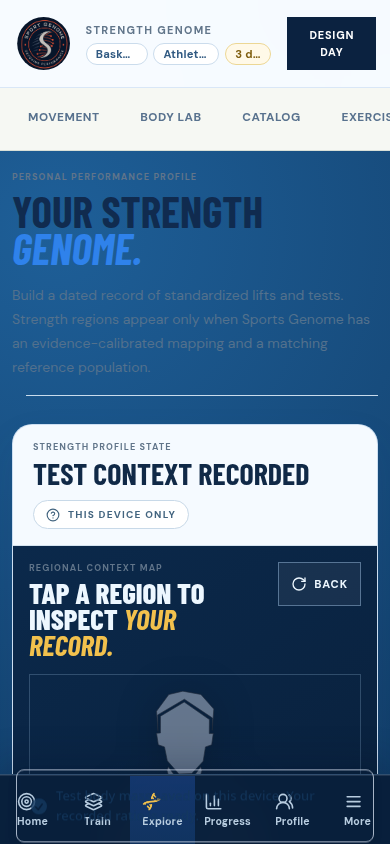
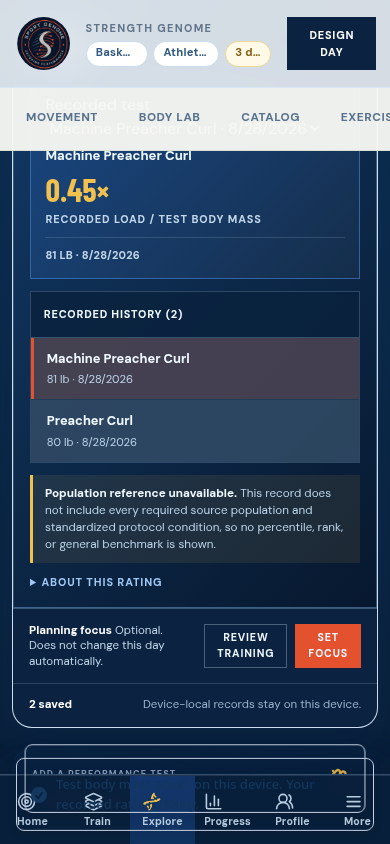
Checkpoint: Published a stronger Strength Genome region-detail workflow. Selected regions now include a concise selectable recorded-history list, visually distinguish the active record, and show an explicit unavailable-reference state when the source population and standardized protocol conditions a

diff --git a/client/src/components/StrengthGenomePanel.tsx b/client/src/components/StrengthGenomePanel.tsx
@@ -52,7 +52,20 @@ function StrengthRegionRecordDetail({ region, observations, onClose, weightUnit,
   const latestRecord = selectStrengthRegionRecord(records, selectedRecordId);
   const bodyMassRatio = latestRecord?.loadKg != null && latestRecord.bodyMassKgAtTest != null && latestRecord.bodyMassKgAtTest > 0 ? latestRecord.loadKg / latestRecord.bodyMassKgAtTest : null;
   const parsedBodyMassEntry = Number(bodyMassEntry);
-  return <section className="strength-region-record-detail" aria-label={`${region.label} recorded strength context`}><div className="strength-region-record-heading"><div><p className="metric-label">Regional record</p><h2>{region.label}</h2></div><button type="button" onClick={() => { emitInteractionFeedback(); onClose(); }} className="strength-region-close" aria-label={`Close ${region.label} detail`}><X className="h-4 w-4" /></button></div>{latestRecord ? <article className="strength-region-record-card">{records.length > 1 && <label className="strength-region-record-picker"><span>Recorded test</span><select aria-label="Choose recorded test" value={selectedRecordId || String(latestRecord.id)} onChange={(event) => setSelectedRecordId(event.target.value)}>{records.map((record) => <option key={record.id} value={String(record.id)}>{record.exerciseName} · {new Date(record.observedAt).toLocaleDateString()}</option>)}</select></label>}<span className="strength-region-test-name">{latestRecord.exerciseName}</span>{bodyMassRatio != null ? <><b className="strength-body-mass-ratio">{bodyMassRatio.toFixed(2)}×</b><span className="strength-ratio-label">Recorded load / test body mass</span></> : <form className="strength-ratio-entry" onSubmit={(event) => { event.preventDefault(); if (!Number.isFinite(parsedBodyMassEntry) || parsedBodyMassEntry <= 0) return; const bodyMassKgAtTest = displayWeightToKilograms(parsedBodyMassEntry, weightUnit); if (directAccess) { onSetDeviceBodyMass(String(latestRecord.id), bodyMassKgAtTest); setBodyMassEntry(""); emitInteractionFeedback([10, 30, 10]); toast.success("Test body mass saved on this device. Your recorded ratio is ready."); return; } setObservationBodyMass.mutate({ observationId: Number(latestRecord.id), bodyMassKgAtTest }); }}><label><span>Body mass on test day ({weightUnit})</span><input aria-label={`Body mass on test day in ${weightUnitLabel(weightUnit)}`} inputMode="decimal" value={bodyMassEntry} onChange={(event) => setBodyMassEntry(event.target.value.replace(/[^0-9.]/g, ""))} placeholder={weightUnit === "lb" ? "e.g. 180" : "e.g. 82"} /></label><button type="submit" disabled={!Number.isFinite(parsedBodyMassEntry) || parsedBodyMassEntry <= 0 || (!directAccess && setObservationBodyMass.isPending)}>{!directAccess && setObservationBodyMass.isPending ? "Saving" : "Calculate ratio"}</button></form>}<span className="strength-region-test-meta">{latestRecord.loadKg != null ? formatDisplayWeight(latestRecord.loadKg, weightUnit) : "No load"}{latestRecord.repetitions ? ` · ${latestRecord.repetitions} reps` : ""} · {new Date(latestRecord.observedAt).toLocaleDateString()}</span></article> : <p className="strength-region-record-empty">No recorded test for this region yet.</p>}<details className="strength-region-boundary"><summary>About this rating</summary><p>This is your recorded lift relative to the body mass logged with that same test. A percentile, universal rank, and regional force score are not shown without a matching validated reference.</p></details></section>;
+  return <section className="strength-region-record-detail" aria-label={`${region.label} recorded strength context`}>
+    <div className="strength-region-record-heading"><div><p className="metric-label">Regional record</p><h2>{region.label}</h2></div><button type="button" onClick={() => { emitInteractionFeedback(); onClose(); }} className="strength-region-close" aria-label={`Close ${region.label} detail`}><X className="h-4 w-4" /></button></div>
+    {latestRecord ? <>
+      <article className="strength-region-record-card">
+        {records.length > 1 && <label className="strength-region-record-picker"><span>Recorded test</span><select aria-label="Choose recorded test" value={selectedRecordId || String(latestRecord.id)} onChange={(event) => setSelectedRecordId(event.target.value)}>{records.map((record) => <option key={record.id} value={String(record.id)}>{record.exerciseName} · {new Date(record.observedAt).toLocaleDateString()}</option>)}</select></label>}
+        <span className="strength-region-test-name">{latestRecord.exerciseName}</span>
+        {bodyMassRatio != null ? <><b className="strength-body-mass-ratio">{bodyMassRatio.toFixed(2)}×</b><span className="strength-ratio-label">Recorded load / test body mass</span></> : <form className="strength-ratio-entry" onSubmit={(event) => { event.preventDefault(); if (!Number.isFinite(parsedBodyMassEntry) || parsedBodyMassEntry <= 0) return; const bodyMassKgAtTest = displayWeightToKilograms(parsedBodyMassEntry, weightUnit); if (directAccess) { onSetDeviceBodyMass(String(latestRecord.id), bodyMassKgAtTest); setBodyMassEntry(""); emitInteractionFeedback([10, 30, 10]); toast.success("Test body mass saved on this device. Your recorded ratio is ready."); return; } setObservationBodyMass.mutate({ observationId: Number(latestRecord.id), bodyMassKgAtTest }); }}><label><span>Body mass on test day ({weightUnit})</span><input aria-label={`Body mass on test day in ${weightUnitLabel(weightUnit)}`} inputMode="decimal" value={bodyMassEntry} onChange={(event) => setBodyMassEntry(event.target.value.replace(/[^0-9.]/g, ""))} placeholder={weightUnit === "lb" ? "e.g. 180" : "e.g. 82"} /></label><button type="submit" disabled={!Number.isFinite(parsedBodyMassEntry) || parsedBodyMassEntry <= 0 || (!directAccess && setObservationBodyMass.isPending)}>{!directAccess && setObservationBodyMass.isPending ? "Saving" : "Calculate ratio"}</button></form>}
+        <span className="strength-region-test-meta">{latestRecord.loadKg != null ? formatDisplayWeight(latestRecord.loadKg, weightUnit) : "No load"}{latestRecord.repetitions ? ` · ${latestRecord.repetitions} reps` : ""} · {new Date(latestRecord.observedAt).toLocaleDateString()}</span>
+      </article>
+      <details className="strength-region-history"><summary>Recorded history ({records.length})</summary><div>{records.map((record) => <button type="button" key={record.id} aria-pressed={String(record.id) === String(latestRecord.id)} onClick={() => { emitInteractionFeedback(); setSelectedRecordId(String(record.id)); }}><strong>{record.exerciseName}</strong><span>{record.loadKg != null ? formatDisplayWeight(record.loadKg, weightUnit) : "No load"}{record.repetitions ? ` · ${record.repetitions} reps` : ""} · {new Date(record.observedAt).toLocaleDateString()}</span></button>)}</div></details>
+      <p className="strength-reference-unavailable"><strong>Population reference unavailable.</strong> This record does not include every required source population and standardized protocol condition, so no percentile, rank, or general benchmark is shown.</p>
+    </> : <div className="strength-region-record-empty"><p>No recorded test for this region yet.</p><p>Population reference unavailable until there is a fully documented, source-matched test.</p></div>}
+    <details className="strength-region-boundary"><summary>About this rating</summary><p>This is your recorded lift relative to the body mass logged with that same test. A percentile, universal rank, and regional force score are not shown without a matching validated reference.</p></details>
+  </section>;
 }
 
 const measurementOptions: { value: MeasurementType; label: string }[] = [

diff --git a/client/src/index.css b/client/src/index.css
@@ -724,6 +724,23 @@ select {
 .destination-train .device-workout-tracker .session-set-row button { border-color: rgb(164 200 232 / .45); background: rgb(255 255 255 / .09); color: #eef7ff; }
 .destination-train .device-workout-tracker .session-set-complete { border-left-color: #f2c14d; background: rgb(242 193 77 / .11); }
 
+.strength-region-history { margin-top: .75rem; border: 1px solid #d2e1ed; background: #f6faff; }
+.strength-region-history summary { display: flex; min-height: 2.8rem; align-items: center; padding: .65rem .8rem; color: #244b70; font-size: .68rem; font-weight: 800; letter-spacing: .07em; text-transform: uppercase; cursor: pointer; }
+.strength-region-history > div { display: grid; gap: 1px; border-top: 1px solid #d8e6f1; background: #d8e6f1; }
+.strength-region-history button { display: grid; gap: .2rem; padding: .7rem .8rem; border-left: 3px solid transparent; background: #fff; color: #2b5377; text-align: left; }
+.strength-region-history button[aria-pressed="true"] { border-left-color: #e4512e; background: #fff6f2; }
+.strength-region-history button strong { color: #102947; font-size: .8rem; }
+.strength-region-history button span { color: #5d7891; font-size: .7rem; }
+.strength-reference-unavailable { margin-top: .75rem; border-left: 3px solid #f2c14d; background: #f7fbff; padding: .65rem .75rem; color: #476782; font-size: .73rem; line-height: 1.45; }
+.strength-reference-unavailable strong { color: #173d69; }
+.destination-explore .strength-region-history { border-color: rgb(164 200 232 / .24); background: rgb(9 33 61 / .84); }
+.destination-explore .strength-region-history summary, .destination-explore .strength-region-history button strong, .destination-explore .strength-reference-unavailable strong { color: #eff8ff; }
+.destination-explore .strength-region-history > div { border-top-color: rgb(164 200 232 / .16); background: rgb(164 200 232 / .16); }
+.destination-explore .strength-region-history button { background: rgb(255 255 255 / .05); color: #bdd5ea; }
+.destination-explore .strength-region-history button[aria-pressed="true"] { background: rgb(228 81 46 / .18); }
+.destination-explore .strength-region-history button span, .destination-explore .strength-reference-unavailable { color: #bdd5ea; }
+.destination-explore .strength-reference-unavailable { background: rgb(242 193 77 / .09); }
+
 .apex-content.destination-explore { background: radial-gradient(circle at 12% 10%, #d8edff 0, #eff7ff 30%, #cbdff4 100%); }
 .destination-explore .atlas-sport-picker, .destination-explore .movement-selector, .destination-explore .body-lab-v2 > .view-header, .destination-explore .catalog-discovery { border-color: #90b8de; background: linear-gradient(135deg, #103b67, #0a274b); color: #eff8ff; box-shadow: 0 16px 34px rgb(8 38 73 / .16); }
 .destination-explore .atlas-sport-picker *, .destination-explore .movement-selector h1, .destination-explore .body-lab-v2 > .view-header h1 { color: inherit; }

diff --git a/shared/strengthGenomeDefinitions.ts b/shared/strengthGenomeDefinitions.ts
@@ -99,7 +99,7 @@ export const strengthObservationRoutes: StrengthObservationRoute[] = [
   { aliases: ["hip thrust", "barbell hip thrust", "glute bridge"], domainIds: ["hip_extension"], regionIds: ["glutes", "hamstrings"], basis: "EXERCISE_MOVEMENT_CLASSIFICATION", boundary: "Routes a hip-extension test to a broad hip-extension domain; it does not directly measure glute or hamstring force." },
   { aliases: ["pull up", "pullup", "weighted pull up", "lat pulldown"], domainIds: ["vertical_pull", "elbow_flexion"], regionIds: ["lats", "upper_back", "biceps"], basis: "EXERCISE_MOVEMENT_CLASSIFICATION", boundary: "Routes a vertical pulling test to broad pulling domains; it does not directly measure lat, upper-back, or biceps force." },
   { aliases: ["barbell row", "bent over row", "seated cable row", "row"], domainIds: ["horizontal_pull", "elbow_flexion"], regionIds: ["upper_back", "lats", "biceps"], basis: "EXERCISE_MOVEMENT_CLASSIFICATION", boundary: "Routes a horizontal pulling test to broad pulling domains; it does not directly measure individual regional force." },
-  { aliases: ["biceps curl", "barbell curl", "straight bar curl", "ez bar curl", "dumbbell curl", "alternating dumbbell curl", "cable curl", "preacher curl", "hammer curl"], domainIds: ["elbow_flexion"], regionIds: ["biceps"], basis: "EXERCISE_MOVEMENT_CLASSIFICATION", boundary: "Routes an elbow-flexion curl test to broad biceps context; it does not directly measure biceps force or create a generic strength rank." },
+  { aliases: ["biceps curl", "barbell curl", "straight bar curl", "ez bar curl", "dumbbell curl", "alternating dumbbell curl", "cable curl", "preacher curl", "machine preacher curl", "hammer curl"], domainIds: ["elbow_flexion"], regionIds: ["biceps"], basis: "EXERCISE_MOVEMENT_CLASSIFICATION", boundary: "Routes an elbow-flexion curl test to broad biceps context; it does not directly measure biceps force or create a generic strength rank." },
   { aliases: ["leg curl", "seated leg curl", "lying leg curl"], domainIds: ["knee_flexion"], regionIds: ["hamstrings"], basis: "EXERCISE_MOVEMENT_CLASSIFICATION", boundary: "Routes a knee-flexion test to a broad hamstring-related domain; it does not directly measure hamstring force." },
   { aliases: ["leg extension", "seated leg extension"], domainIds: ["knee_extension"], regionIds: ["quadriceps"], basis: "EXERCISE_MOVEMENT_CLASSIFICATION", boundary: "Routes a knee-extension test to a broad quadriceps-related domain; it does not directly measure quadriceps force." },
   { aliases: ["calf raise", "standing calf raise", "seated calf raise"], domainIds: ["plantarflexion"], regionIds: ["calves"], basis: "EXERCISE_MOVEMENT_CLASSIFICATION", boundary: "Routes a plantarflexion test to a broad calf-related domain; it does not directly measure calf force." },

diff --git a/client/src/components/StrengthGenomePanel.test.ts b/client/src/components/StrengthGenomePanel.test.ts
@@ -65,6 +65,8 @@ describe("Strength Genome panel", () => {
     expect(source).toContain("Boolean(selectedExercise)");
     expect(resolveStrengthObservationRoute("Straight Bar Curl")?.regionIds).toContain("biceps");
     expect(resolveStrengthObservationRoute("biceps curl")?.domainIds).toContain("elbow_flexion");
+    expect(resolveStrengthObservationRoute("Machine Preacher Curl")?.regionIds).toContain("biceps");
+    expect(resolveStrengthObservationRoute("Machine Preacher Curl")?.domainIds).toContain("elbow_flexion");
   });
 
   it("keeps each selected regional record distinct when choosing body-mass context", () => {
@@ -76,5 +78,15 @@ describe("Strength Genome panel", () => {
     expect(selectStrengthRegionRecord(records, "missing")).toEqual(records[0]);
     expect(source).toContain('aria-label="Choose recorded test"');
     expect(source).toContain("setSelectedRecordId(event.target.value)");
+  });
+
+  it("shows selected-region record history and makes missing source-qualified references explicit", () => {
+    expect(source).toContain('className="strength-region-history"');
+    expect(source).toContain("Recorded history ({records.length})");
+    expect(source).toContain('aria-pressed={String(record.id) === String(latestRecord.id)}');
+    expect(source).toContain("Population reference unavailable.");
+    expect(source).toContain("does not include every required source population and standardized protocol condition");
+    expect(source).toContain("No recorded test for this region yet.");
+    expect(source).not.toContain("regional percentile");
   });
 });

diff --git a/todo.md b/todo.md
@@ -14,6 +14,7 @@
 - [ ] Show a one-test population-relative benchmark only when the selected standardized exercise, test type, normalization, and athlete reference fields match a reviewed source; otherwise retain a clear unavailable state.
 - [x] Show selected primary and supporting catalog muscles for the logged exercise, with verified curl routing to biceps context.
 - [x] Verify selected Strength Genome catalog exercises across multiple movement families map cleanly from catalog selection into recorded region/domain routing.
+- [x] Route the real Machine Preacher Curl catalog entry to biceps/elbow-flexion context and protect the selected-region history workflow from this alias gap.
 - [x] Add focused coverage for multiple catalog exercises displaying primary/supporting muscles and routing expected Strength Genome context.
 - [x] Render the selected-catalog Strength Genome preview for multiple real exercise families and assert primary, supporting, and broad recorded context remain distinct from scores or benchmarks.
 - [x] Expose concise selected-catalog primary, supporting, and broad recorded-context labels in Strength Genome without introducing a score, rank, or benchmark.
@@ -37,9 +38,10 @@
 - [x] Replace the Strength Genome long regional no-data list with the existing interactive full-body qualitative map.
 - [x] Use categorical color to distinguish recorded test context, athlete-confirmed focus, and no mapped test context without implying activation or strength rank.
 - [ ] Open a region detail panel on body-map selection showing raw athlete records, valid reference context when available, and explicit no-data or non-comparable boundaries instead of invented percentiles or ranks.
-- [ ] Render selected-region raw observation history by filtering saved observations through the recorded Strength Genome region/domain routing.
+- [x] Render selected-region raw observation history by filtering saved observations through the recorded Strength Genome region/domain routing.
 - [ ] Add evidence-bounded selected-region reference context only when a reviewed reference exists, with explicit no-reference and non-comparable states otherwise.
 - [ ] Add focused Strength Genome body-map coverage for observed-region detail, no-data detail, and the prohibition on invented percentile or rank output.
+- [x] Present selected-region direct-access record history with a concise explicit unavailable-reference state when no exact reviewed reference applies.
 - [x] Require matching recorded test conditions for within-athlete Strength Genome load comparisons, returning an explicit non-comparable state rather than a misleading change card.
 - [x] Return an explicit non-comparable result when matching exercise/test/laterality observations differ by recorded testing conditions.
 - [x] Render concise Progress copy explaining when recorded test conditions prevent a like-for-like comparison.
